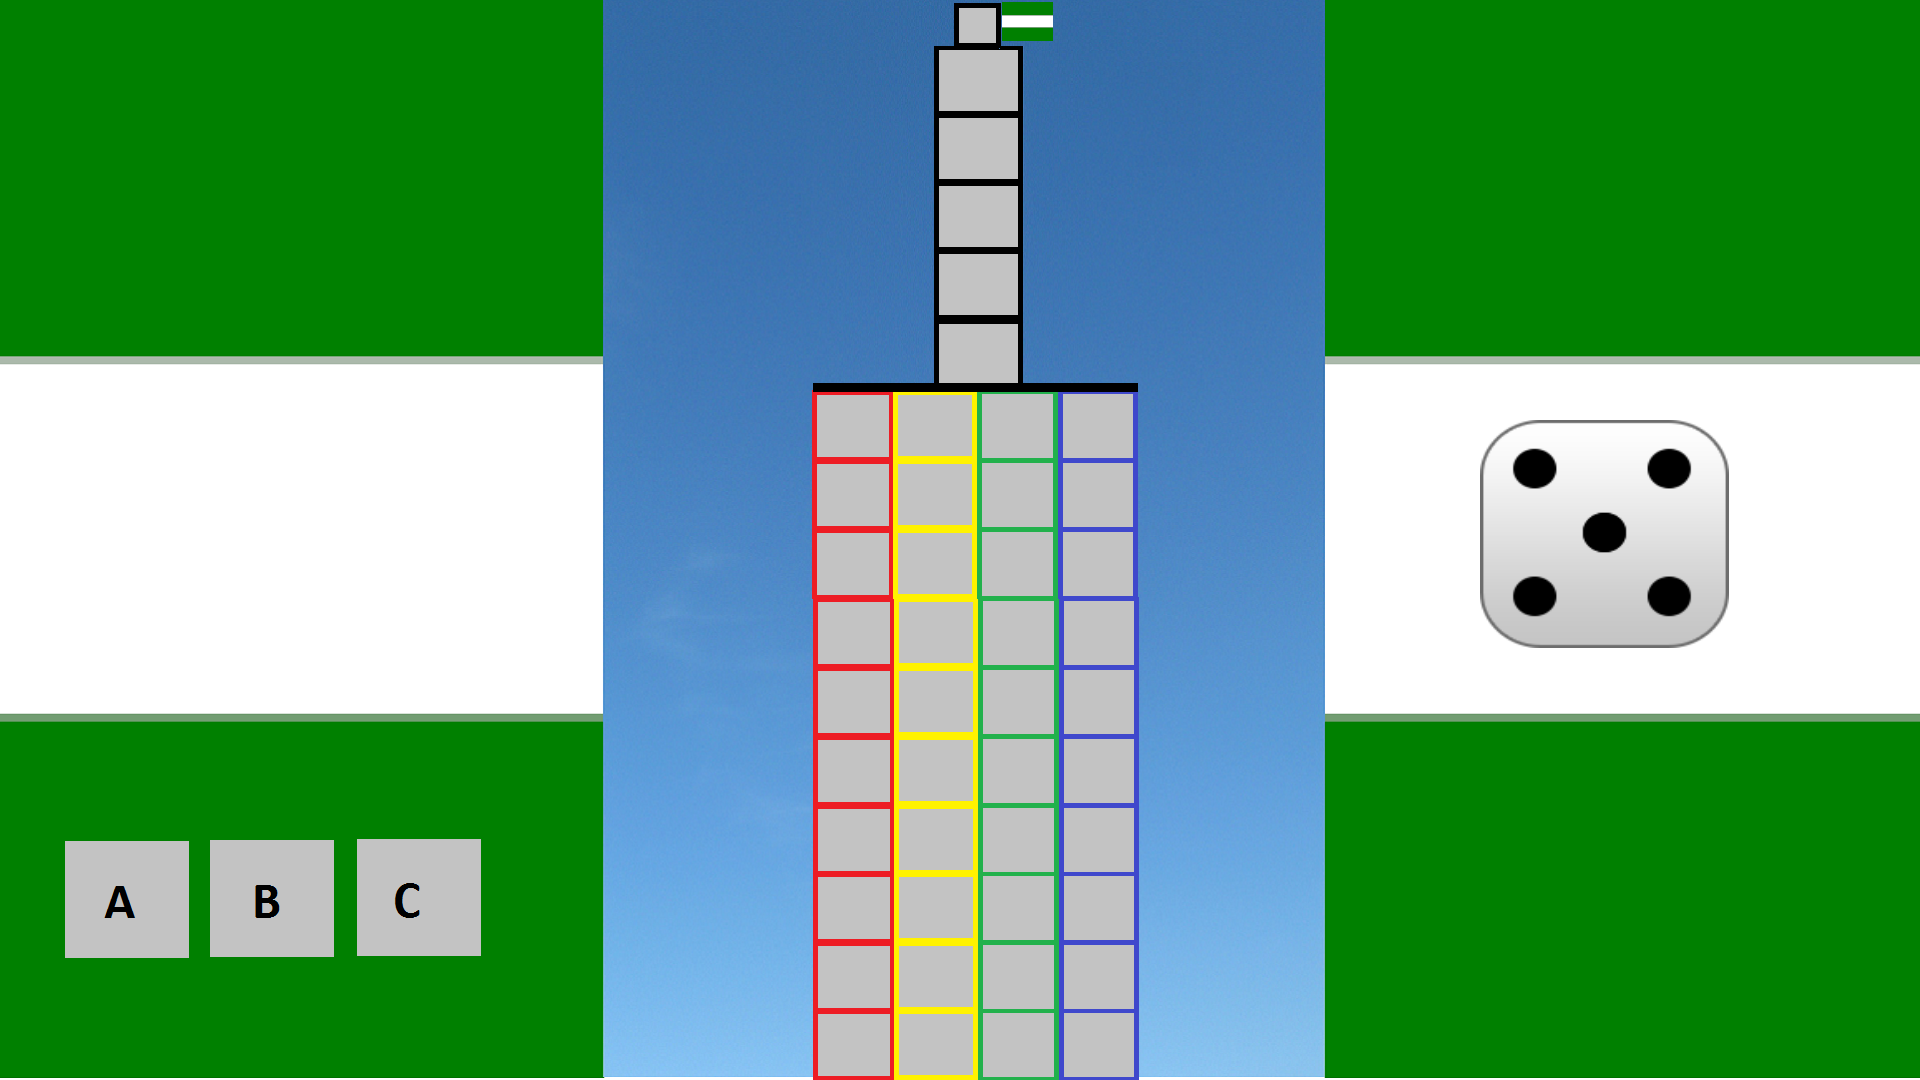
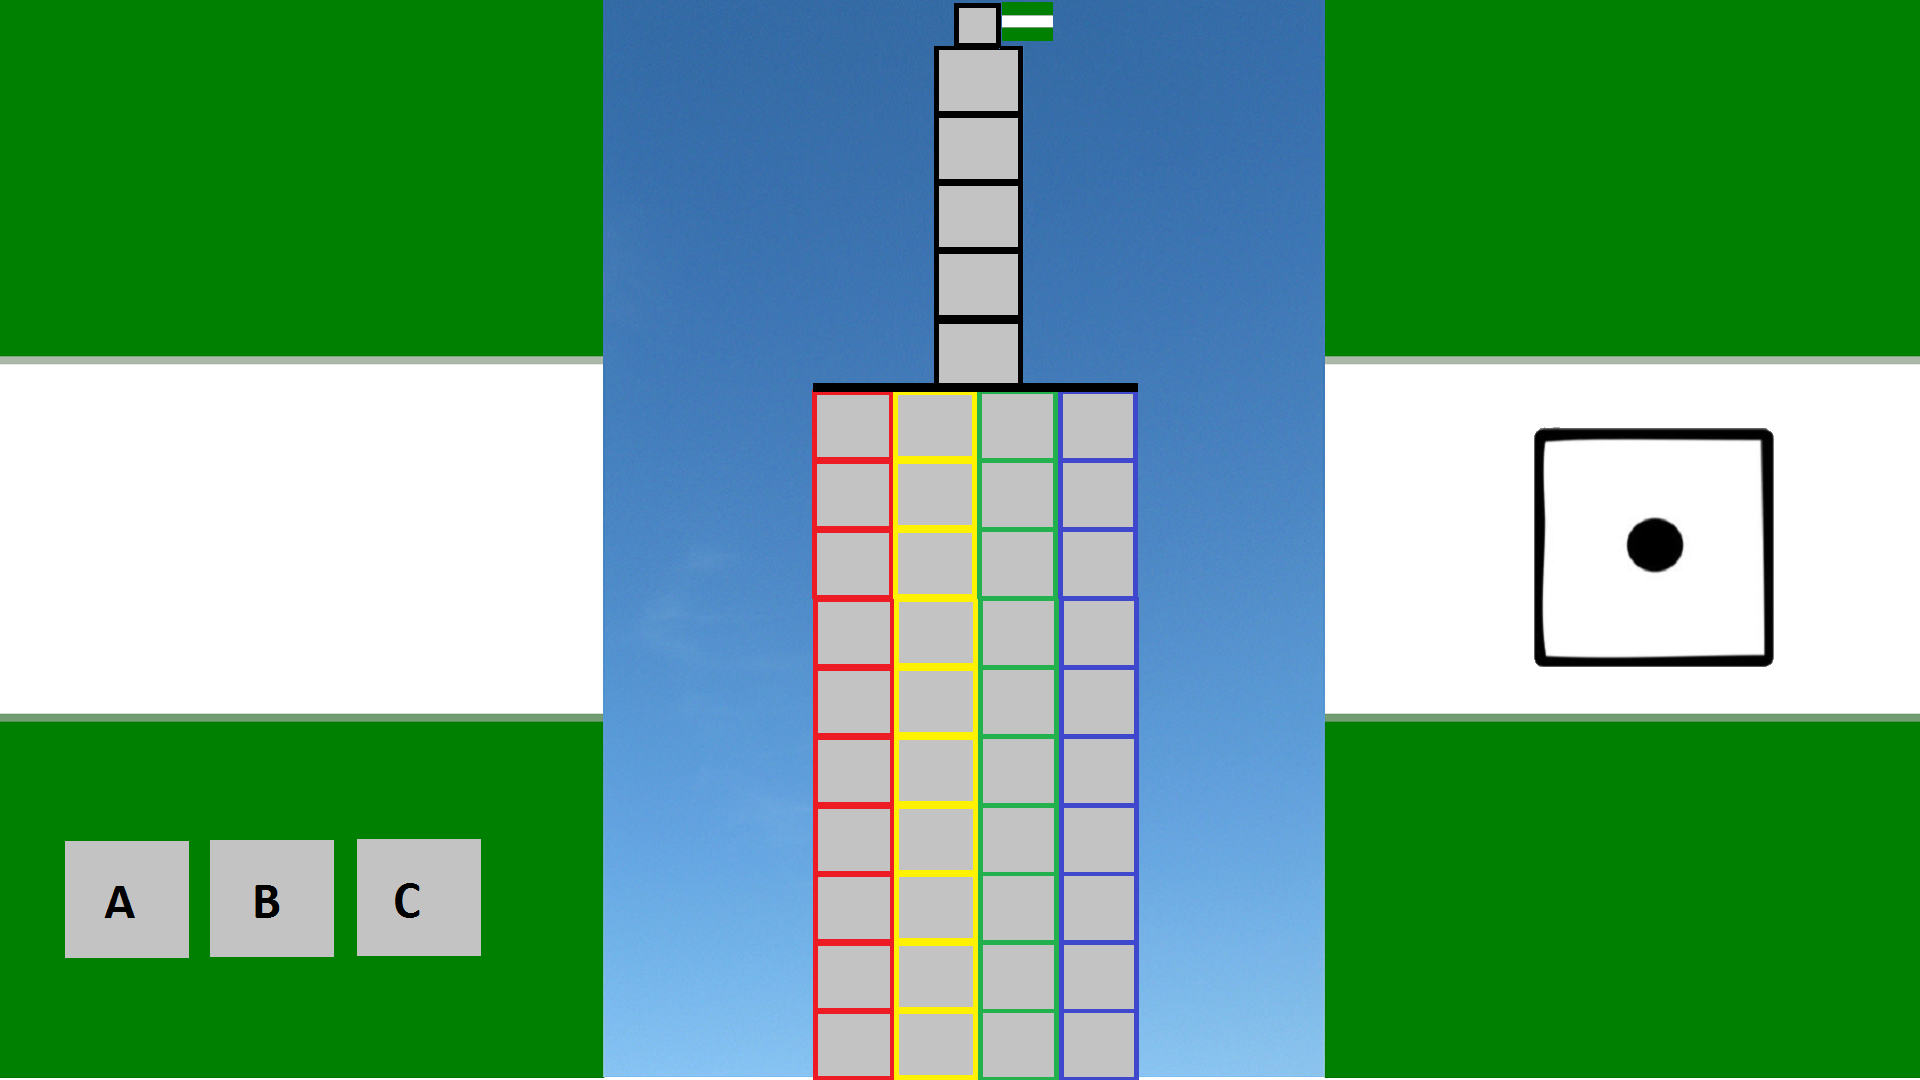
Added dice sides

Changed region(s): [[0.75, 0.3667, 0.9375, 0.6417]]

diff --git a/Aarons files - NOT FINAL/mainGame.py b/Aarons files - NOT FINAL/mainGame.py
@@ -24,7 +24,12 @@ class Player:
         self.image = image
 
     def update(self, cg):
-        self.y -= (69 * cg)
+        while cg > 0:
+            if self.y <= 386:
+
+                self.x = 940
+            self.y -= 69
+            cg -= 1
 
     def draw(self, screen):
         screen.blit(self.image, (self.x, self.y))
@@ -34,7 +39,10 @@ def program(maxp):
     width = 1920
     height = 1080
     size = (width, height)
-    background = pygame.image.load("Afbeeldingen/gameboard.png")
+    background1 = pygame.image.load("Afbeeldingen/gameboard.png")
+    background2 = pygame.image.load("Afbeeldingen/gameboard2.png")
+    background3 = pygame.image.load("Afbeeldingen/gameboard3.png")
+    main = pygame.image.load("Afbeeldingen/gameboardMain.png")
     img1 = pygame.image.load("Afbeeldingen/SP1.png")
     img2 = pygame.image.load("Afbeeldingen/SP2.png")
     img3 = pygame.image.load("Afbeeldingen/SP3.png")
@@ -51,6 +59,7 @@ def program(maxp):
         playerThree = Player(981, 1007, img3)
     if maxp == 4:
         playerFour = Player(1062, 1007, img4)
+    screen.blit(main, (0, 0))
 
     ant = "1999"
     cp = 1
@@ -66,8 +75,14 @@ def program(maxp):
         for event in pygame.event.get():
             if event.type == pygame.QUIT:
                 mainloop = False
-            elif event.type == pygame.MOUSEBUTTONDOWN and event.button == 1 and mouse[0] > 1482 and mouse[0] < 1733 and mouse[1] > 425 and mouse[1] < 646:
+            elif event.type == pygame.MOUSEBUTTONDOWN and event.button == 1 and mouse[0] > 1539 and mouse[0] < 1776 and mouse[1] > 434 and mouse[1] < 662:
                 cg = diceThrow()
+                if cg == 1:
+                    screen.blit(background1, (0, 0))
+                elif cg == 2:
+                    screen.blit(background2, (0, 0))
+                else:
+                    screen.blit(background3, (0, 0))
                 # playerAnt = input("Antwoord")
                 # if playerAnt == ant:
                 if cp == 1:
@@ -91,7 +106,6 @@ def program(maxp):
                     playerFour.update(cg)
                     cp -= 3
         print(cp)
-        screen.blit(background, (0,0))
         if maxp <= 2:
             playerOne.draw(screen)
             playerTwo.draw(screen)
